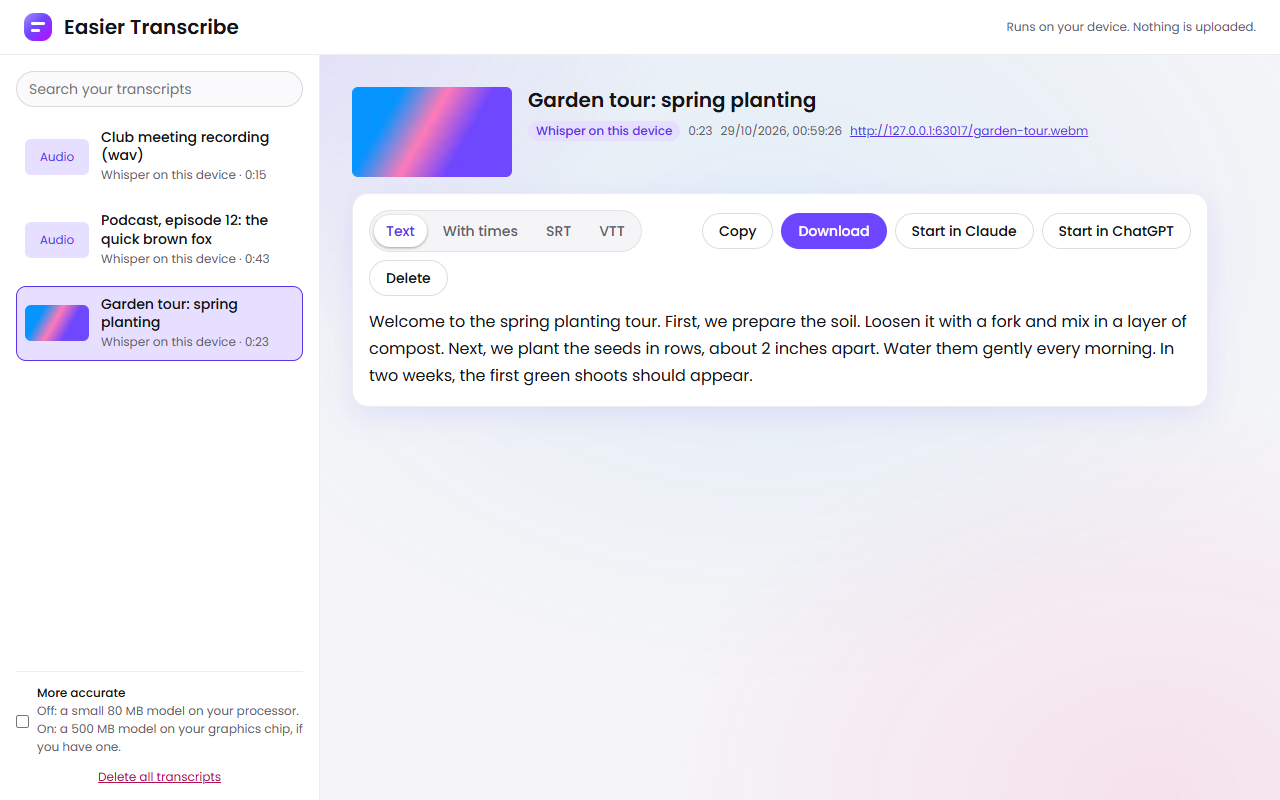
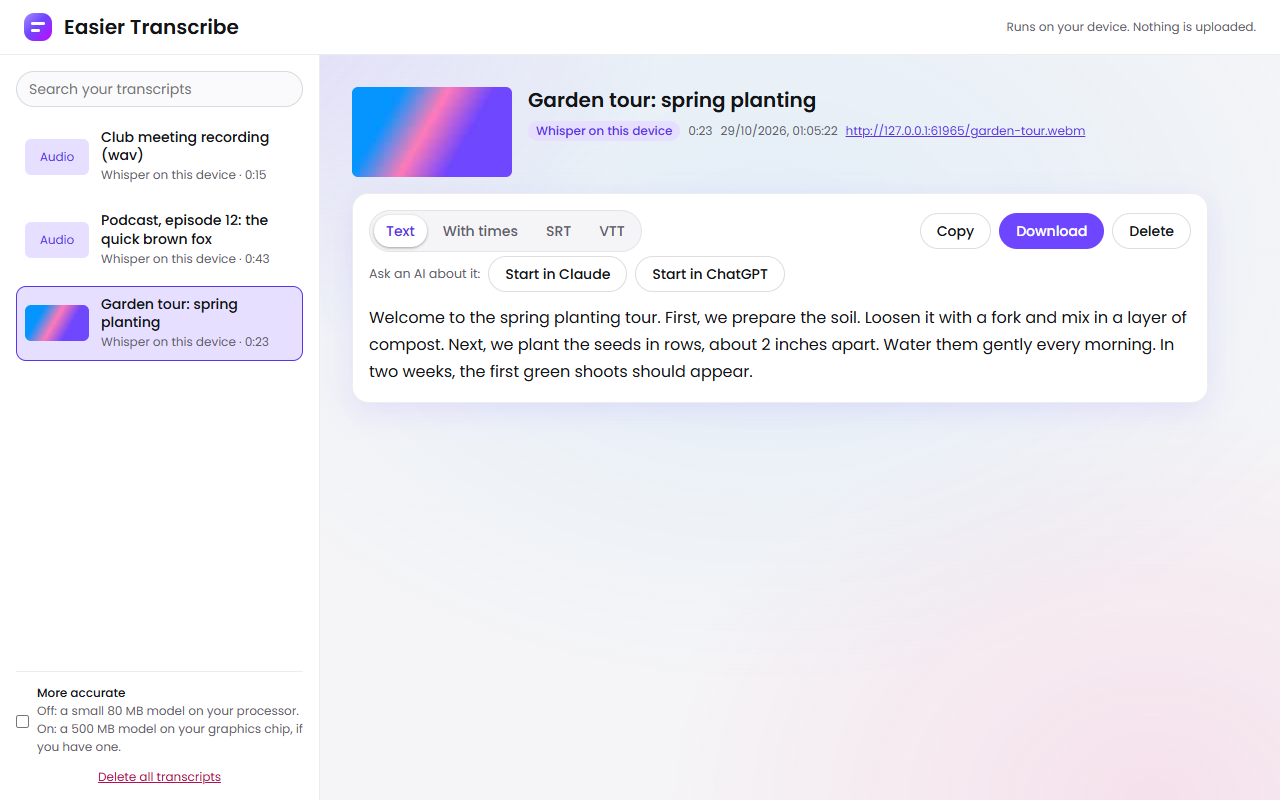
Extension: Ask an AI row on the results page, DOWNLOAD OPTIONS is a vague title, retaken screenshots

Changed region(s): [[0.2812, 0.25, 0.9375, 0.5312], [0.625, 0.1562, 0.8438, 0.1875]]

diff --git a/extension/src/results.js b/extension/src/results.js
@@ -120,10 +120,10 @@ function renderMain() {
       <span class="spacer"></span>
       <button class="btn" data-act="copy">Copy</button>
       <button class="btn primary" data-act="download">Download</button>
-      <button class="btn" data-act="ask-claude">Start in Claude</button>
-      <button class="btn" data-act="ask-chatgpt">Start in ChatGPT</button>
       <button class="btn" data-act="delete">Delete</button>
-    </div><div id="text" class="transcript"></div></div></div>`;
+    </div><div class="tools ask"><span class="ask-label">Ask an AI about it:</span>
+      <button class="btn" data-act="ask-claude">Start in Claude</button>
+      <button class="btn" data-act="ask-chatgpt">Start in ChatGPT</button></div><div id="text" class="transcript"></div></div></div>`;
   }
   main.querySelector('#head').innerHTML = head;
   main.querySelector('#status').innerHTML = status;

diff --git a/extension/src/content.js b/extension/src/content.js
@@ -51,7 +51,7 @@ if (!globalThis.__easierLoaded) {
 
   // "download 1 file", "MP4" and the like say nothing; the page's own heading or title does.
   function betterTitle(title, el) {
-    const vague = (t) => /^(download( \d+ files?)?|mp[34]|m4a|wav|ogg|webm|video|audio|listen|play|file|link|\d+ files?)$/i.test(t);
+    const vague = (t) => /^(download( options| \d+ files?)?|mp[34]|m4a|wav|ogg|webm|video|audio|listen|play|file|link|\d+ files?)$/i.test(t);
     if (!vague(title)) return title;
     return [nearestHeading(el), clean(document.title)].find((t) => t && !vague(t)) || title;
   }

diff --git a/extension/src/results.css b/extension/src/results.css
@@ -68,3 +68,6 @@
   .layout { grid-template-columns: 1fr; }
   .side { position: static; max-height: none; }
 }
+
+.tools.ask { margin-top: calc(var(--sp-4) * -1); }
+.ask-label { color: var(--fg-muted); font-size: 0.9em; }
